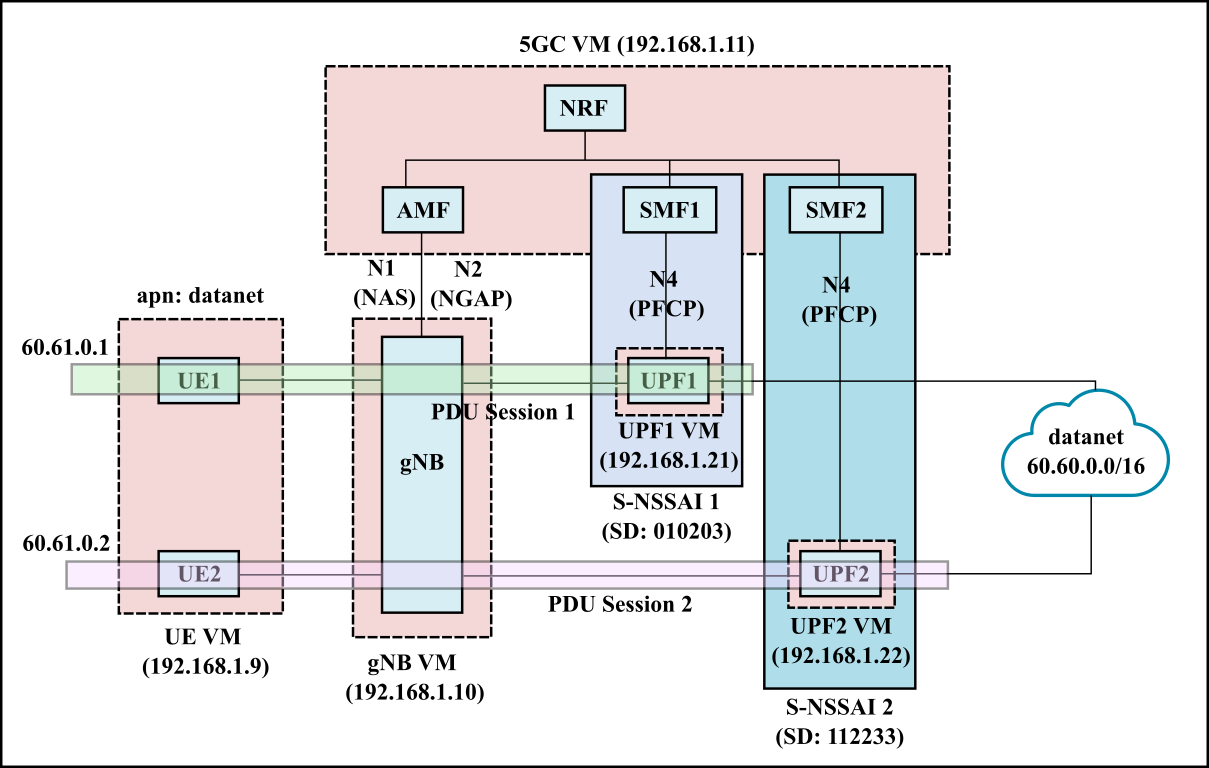
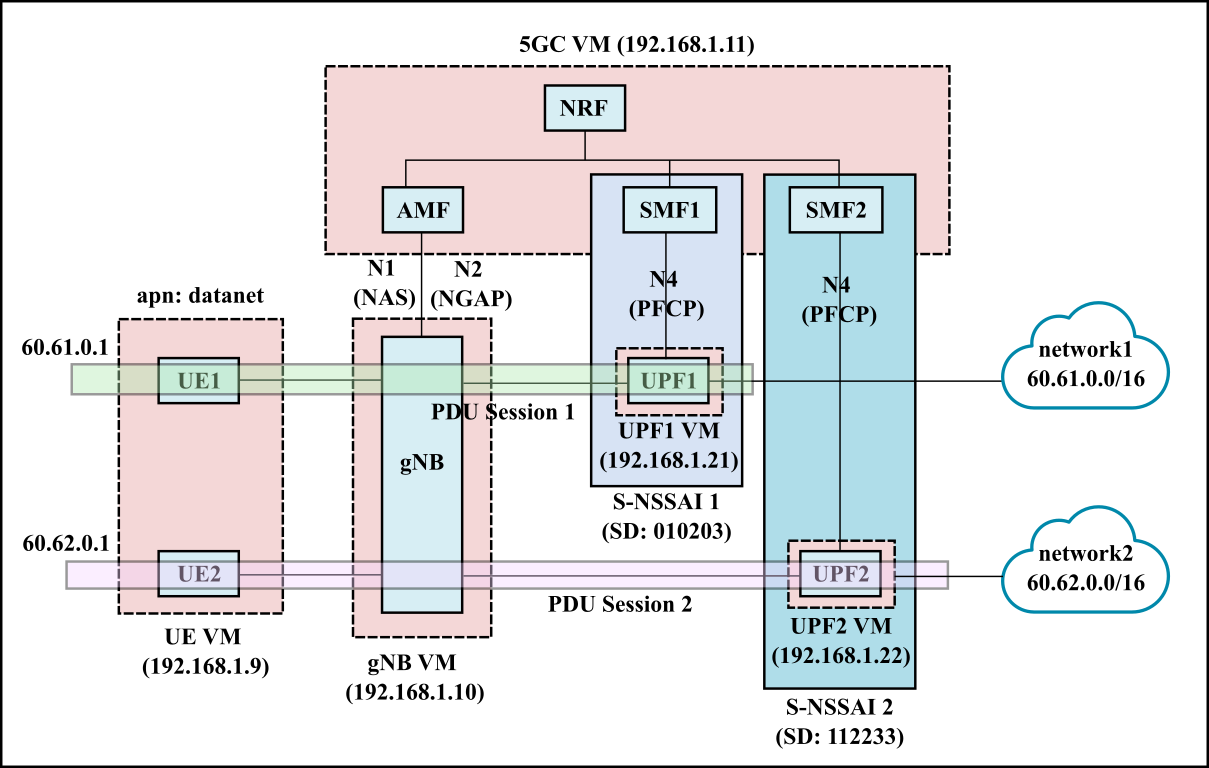
updates to readme for slicing 01.

Changed region(s): [[0.7345, 0.4062, 0.9793, 0.8125], [0.0306, 0.6875, 0.0918, 0.7188], [0.8875, 0.375, 0.9181, 0.4062]]

diff --git a/slicing_01/README.md b/slicing_01/README.md
@@ -1,13 +1,19 @@
-# 5GC Setup: Slicing 01 (WIP)
+# 5GC Setup: Slicing 01
 
-This is WIP. See [Issues](#issues).
-
-- [5GC Setup: Slicing 01 (WIP)](#5gc-setup-slicing-01-wip)
+- [5GC Setup: Slicing 01](#5gc-setup-slicing-01)
   - [Deployment scenario](#deployment-scenario)
+  - [How to run](#how-to-run)
   - [VM placement](#vm-placement)
-  - [Issues](#issues)
   - [Debugging](#debugging)
-    - [Clearing all subscriber information using Mongodb](#clearing-all-subscriber-information-using-mongodb)
+    - [Using loopback addresses as PFCP interfaces](#using-loopback-addresses-as-pfcp-interfaces)
+    - [SMF selection error](#smf-selection-error)
+    - [Duplicate Mongodb entries](#duplicate-mongodb-entries)
+      - [Using Mongodb database](#using-mongodb-database)
+      - [Clearing all subscriber information using Mongodb](#clearing-all-subscriber-information-using-mongodb)
+      - [Clearing urilist collection when free5gc is stopped](#clearing-urilist-collection-when-free5gc-is-stopped)
+  - [Enhancements](#enhancements)
+    - [SMF filtering and selection](#smf-filtering-and-selection)
+  
 
 ## Deployment scenario
 
@@ -18,27 +24,71 @@ This is WIP. See [Issues](#issues).
 
 The configuration files for this deployment are in the [config](config) directory.
 
+## How to run
+
+The [scripts](scripts) directory contains various scripts for running the setup. Obviously, each script should be run from the proper VM, i.e. UPF1 script should be run from the UPF1 VM.
+- [run_5gc](scripts/run_5gc.sh): Run the free5gc core.
+- [run_upf](scripts/run_upf.sh): Run the UPF functions. Run with positional arguments as `./run_upf 1` to run UPF1 and similarly for UPF2. The positional arguments are used to select the proper configuration file.
+- [run_gnb](scripts/run_gnb.sh): Run the UERANSIM gNB
+- [launch_ue](scripts/launch_ue.sh): Run the UE. Run with positional arguments as `./launch_ue.sh 1` to run UE1 and similarly for UE2.
+
+**IMPORTANT**: See instructions for [using loopback addresses as PFCP interfaces](#using-loopback-addresses-as-pfcp-interfaces) before running.
+
+
 ## VM placement
 
 The VM placement is the same as the [multi_upf](../multi_upf) scenario. Please see the [README](../multi_upf/README.md) there.
 
-## Issues
-- Two SMFs are not working together. The second SMF instance does not respond to the AMF and gives the following error during PDU establishment.
-  
-![smf_error](../images/smf_error.jpg)
 
 ## Debugging
 
-### Clearing all subscriber information using Mongodb
-Run the mongodb CLI and switch to free5gc database.  
-```
-$ use free5gc
-```
-See a list of all collections using `show collections`  
+### Using loopback addresses as PFCP interfaces 
 
-Remove all subscription information
+To route packets from outside the local machine (i.e. PFCP packets from UPF1 or UPF2 VM) to the loopback addresses used as PFCP interfaces for SMF1 and SMF2, enable `route_localnet`.
+
 ```
-db.NfProfile.remove({})
+sudo sysctl -w net.ipv4.conf.all.route_localnet=1
+```
+### SMF selection error
+
+It is **very important** the SMF configuration files should only contain the S-NSSAIs which are supported by the UPF. For instance, if SMF1 only supports UPF1, and UPF1 only supports S-NSSAI 1, then **do not** put any other S-NSSAI in SMF1 configuration file!
+
+Including any other S-NSSAI than those supported by the UPF can lead to AMF selecting the wrong SMF, leading to the following error.
+  
+![smf_error](../images/smf_error.jpg)
+
+This is due to the following.
+- The SMF selection procedure only filters SMFs based on S-NSSAI and **does not look at UPF information**. This can be seen here [https://github.com/free5gc/amf/blob/6e0202ce2de6366856b005e5a5722745e420008f/consumer/sm_context.go#L90](https://github.com/free5gc/amf/blob/6e0202ce2de6366856b005e5a5722745e420008f/consumer/sm_context.go#L90).
+- With reference to the deployment shown above, this means that including S-NSSAI 2 in SMF1 configuration leads to the AMF selecting SMF1 for PDU session 2, even though UPF1 does not support it. 
+
+
+  
+
+
+
+### Duplicate Mongodb entries
+
+The mongodb entries are not cleared when free5gc is stopped.
+This leads to the following issues.
+
+- UE subscription information remaining in the database  
+- Obsolete NF instances registered with the NRF remaining in the database. The relevant collections are `NfProfile` and `urilist`. Example `NfProfile` for SMF can be seen [here](logs/smf_nfprofile.json).
+
+
+#### Using Mongodb database
+Run the mongodb CLI and switch to free5gc database using `use free5gc`.  
+See a list of all collections using `show collections` .
+
+Information can be extracted from mongodb in JSON format as follows:
+```
+mongo free5gc --eval "printjson(db.NfProfile.findOne({nfType: 'SMF'}))" > smf_nfprofile.json
+```
+
+#### Clearing all subscriber information using Mongodb
+ 
+
+All subscriber information can be removed using the following:
+```
 db.policyData.ues.amData.remove({})
 db.policyData.ues.smData.remove({})
 db.subscriptionData.authenticationData.authenticationStatus.remove({})
@@ -48,3 +98,67 @@ db.subscriptionData.provisionedData.amData.remove({})
 db.subscriptionData.provisionedData.smData.remove({})
 db.subscriptionData.provisionedData.smfSelectionSubscriptionData.remove({})
 ```
+
+#### Clearing urilist collection when free5gc is stopped
+
+- In the `urilist` collections, multiple instances of the same NF with different `NfInstanceId` exists in the database. Thus, there exists obsolete links to NF instances.
+- Separate `NfInstanceId` exists for the same NF across different runs because in the init function, a random uuid string is generated everytime. See [https://github.com/free5gc/smf/blob/main/context/context.go#L21](https://github.com/free5gc/smf/blob/main/context/context.go#L21)
+- A similar issue occurs with the `NfProfile` collection.
+   
+To clear, run the following from mongodb CLI.
+```
+db.NfProfile.remove({})
+db.urilist.remove({})
+```
+
+**Note**: The updated script [run_5gc.sh](scripts/run_5gc.sh) includes the above two commands, so obsolete NF information is cleared when the core goes down.
+
+
+## Enhancements
+
+### SMF filtering and selection
+- The available SMFs are filtered by S-NSSAI only. The relevant code is [https://github.com/free5gc/nrf/blob/386a6bdda516b64da43dd1711e3893528deaf0b9/producer/nf_discovery.go#L287](https://github.com/free5gc/nrf/blob/386a6bdda516b64da43dd1711e3893528deaf0b9/producer/nf_discovery.go#L287). This can be verified by running the following query in mongodb. 
+
+  ```
+  db.NfProfile.find({
+      $and: [
+          {
+              "nfType": "SMF"
+          },
+          {
+              "smfInfo.sNssaiSmfInfoList": { $elemMatch: {
+                      "sNssai.sd": "112233"
+                  }
+              }
+          },
+      ],
+  },
+  {
+      "ipv4Addresses": 1
+  })
+  ```
+
+- The parameters used for filtering SMF are S-NSSAI and DNN. This can be seen here.
+  ```go
+  {ServiceNames:{isSet:true value:[nsmf-pdusession]} RequesterNfInstanceFqdn:{isSet:false value:} TargetPlmnList:{isSet:true value:[{"mcc":"208","mnc":"93"}]} RequesterPlmnList:{isSet:false value:<nil>} TargetNfInstanceId:{isSet:false value:<nil>} TargetNfFqdn:{isSet:false value:} HnrfUri:{isSet:false value:} Snssais:{isSet:true value:[{"sst":1,"sd":"112233"}]} Dnn:{isSet:true value:network2} NsiList:{isSet:false value:<nil>} SmfServingArea:{isSet:false value:} Tai:{isSet:false value:<nil>} AmfRegionId:{isSet:false value:} AmfSetId:{isSet:false value:} Guami:{isSet:false value:<nil>} Supi:{isSet:false value:} UeIpv4Address:{isSet:false value:} IpDomain:{isSet:false value:} UeIpv6Prefix:{isSet:false value:<nil>} PgwInd:{isSet:false value:false} Pgw:{isSet:false value:} Gpsi:{isSet:false value:} ExternalGroupIdentity:{isSet:false value:} DataSet:{isSet:false value:<nil>} RoutingIndicator:{isSet:false value:} GroupIdList:{isSet:false value:<nil>} DnaiList:{isSet:false value:<nil>} SupportedFeatures:{isSet:false value:} UpfIwkEpsInd:{isSet:false value:false} ChfSupportedPlmn:{isSet:false value:<nil>} PreferredLocality:{isSet:false value:} AccessType:{isSet:false value:<nil>} IfNoneMatch:{isSet:false value:}}
+  ```
+- If more than one SMF is available for a given S-NSSAI, the first instance is chosen. The current implementation does not support any other selection criteria. The relevant code is [https://github.com/free5gc/amf/blob/6e0202ce2de6366856b005e5a5722745e420008f/consumer/sm_context.go#L100](https://github.com/free5gc/amf/blob/6e0202ce2de6366856b005e5a5722745e420008f/consumer/sm_context.go#L100).
+  
+- The following shows the result of filtering SMF by S-NSSAI. Very little information is included which can be used for SMF selection.
+
+  ```go
+  {ValidityPeriod:100 NfInstances:[{NfInstanceId:d86056f0-da2d-4901-88b6-18263f1163f4 NfType:SMF NfStatus:REGISTERED HeartBeatTimer:0 PlmnList:0xc0004f6048 SNssais:0xc0004f6078 PerPlmnSnssaiList:[] NsiList:[] Fqdn: InterPlmnFqdn: Ipv4Addresses:[127.0.0.62] Ipv6Addresses:[] AllowedPlmns:<nil> AllowedNfTypes:[] AllowedNfDomains:[] AllowedNssais:<nil> Priority:0 Capacity:0 Load:0 Locality: UdrInfo:<nil> UdmInfo:<nil> AusfInfo:<nil> AmfInfo:<nil> SmfInfo:0xc0000ae680 UpfInfo:<nil> PcfInfo:<nil> BsfInfo:<nil> ChfInfo:<nil> NrfInfo:<nil> CustomInfo:map[] RecoveryTime:<nil> NfServicePersistence:false NfServices:0xc0004f6138 NfProfileChangesSupportInd:false NfProfileChangesInd:false DefaultNotificationSubscriptions:[]}] NrfSupportedFeatures:}
+  ```
+- SMF selection criteria are given in 3GPP TS 23.501 Section 6.3.2.
+
+
+
+
+
+
+
+
+
+
+ 
+

diff --git a/README.md b/README.md
@@ -32,7 +32,7 @@ The configuration files and scripts are in the [multi_upf](multi_upf) directory.
 
 The configuration files and scripts are in the [slicing_01](slicing_01) directory.
 
-## Network Slicing 02
+## Network Slicing 02 (TODO)
 
 - In this scenario, we have 2 S-NSSAI representing two network slices (each consisting of 1 SMF and 1 UPF). 
 - UE1 connects to both slice 1 and slice 2 using two separate PDU sessions.
